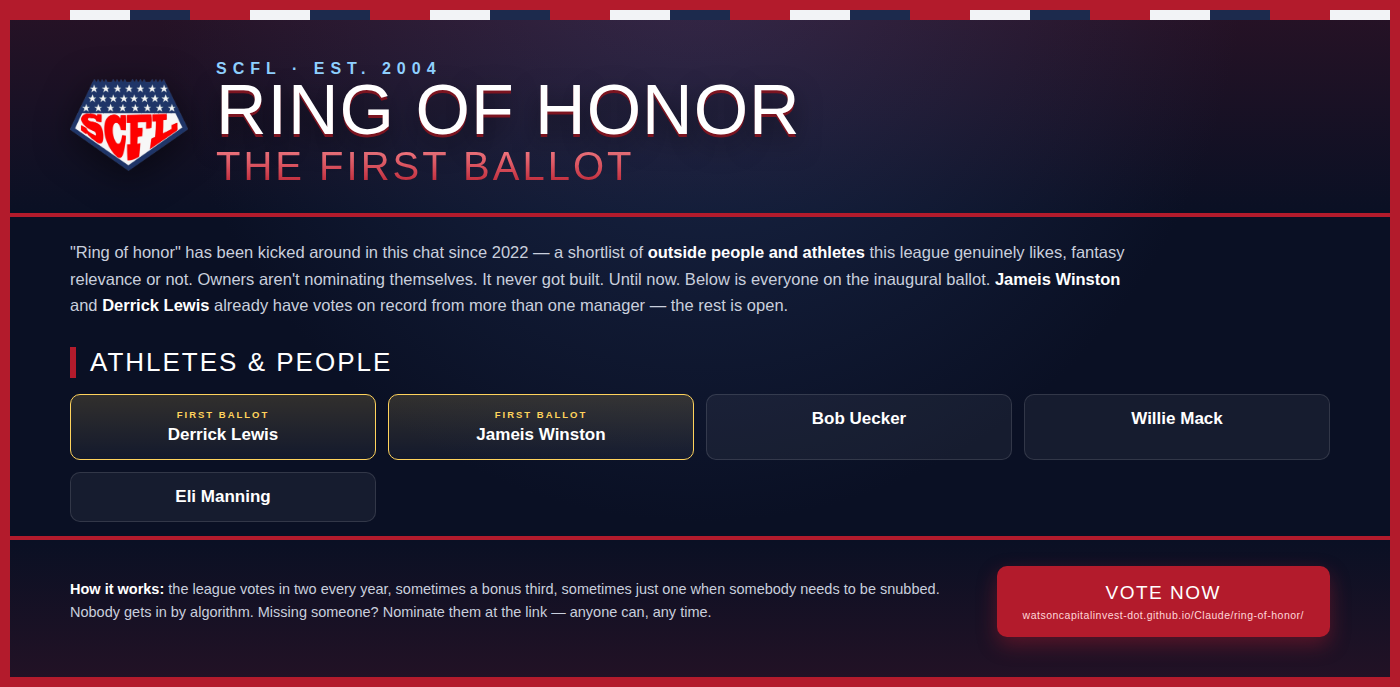
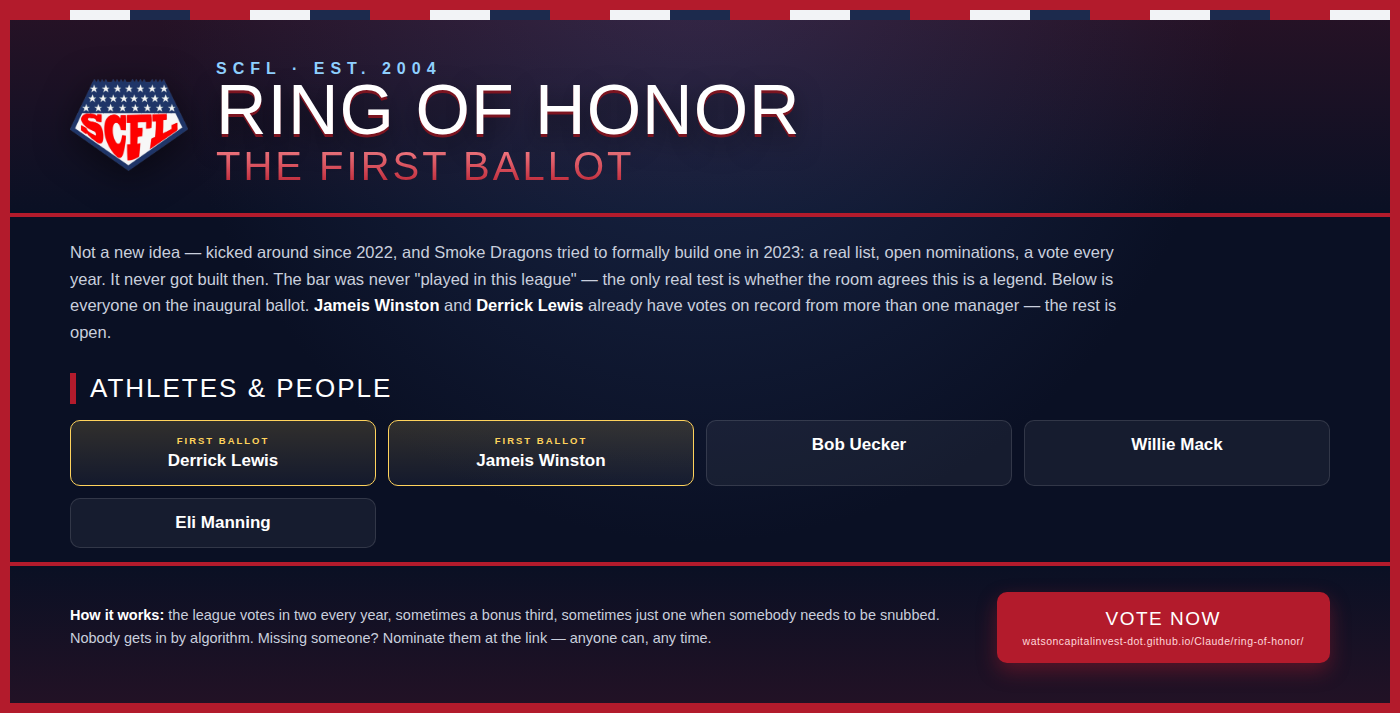
Rewrite the Ring of Honor intro from the actual chat history
The "fun people this league likes — full stop" framing was my own
paraphrase, not theirs, and it read wrong. Went back to the source:
casual "ring of honor" nominations go back to at least May 2022 (a
golfer, called out as a legend on and off the course), and Smoke
Dragons made an actual formal proposal in May 2023 — build a list, take
league nominations, vote in a couple every year, tie it to draft day.
It never got built then.

That's the real precedent, and it was never "played in this league" as
a bar — the closest thing to a stated rule is whether the room agrees
someone's a legend. Rewrote the intro on the standalone page, the
in-app tool, the ballot card, and the build script's own docstring to
say that plainly instead of my generic version.

diff --git a/index.html b/index.html
@@ -7689,14 +7689,13 @@ async function showRingOfHonor(flash) {
     </div>`;
   setContent(`<button class="btn ghost" data-act="newsroom" style="width:auto;padding:8px 14px;margin-bottom:14px">‹ Newsroom</button>
     <div class="card"><h3>🏆 SCFL Ring of Honor</h3>
-      <p class="muted">Fun people and athletes this league likes — full stop. Doesn't have to be a
-      fantasy-relevant name; doesn't have to have ever been on a roster. Outside figures only — the
-      sixteen owners aren't nominating themselves. This has actually been a running idea in the
-      group chat since 2022, long before it had an app page. This board only collects votes and
-      nominations — nobody gets inducted by an algorithm, only by the league itself. The candidates
-      below are a starting seed, not a finished ballot, so it's guaranteed to be missing people. If
-      someone's missing — a fighter, a comedian, a guy from the group chat's favorite team, whoever
-      — nominate them below.</p>
+      <p class="muted">Not a new idea — the chat's kicked around a "ring of honor" since at least
+      2022, and Smoke Dragons tried to formally build one in 2023: a real list, open nominations, a
+      vote every year, tied to draft day. It never got built then. The bar was never "played in this
+      league" — real votes since have gone to a UFC heavyweight and a Brewers broadcaster right
+      alongside actual NFL names. The only real test: does the room agree this is a legend. Outside
+      people and athletes only — the sixteen owners aren't nominating themselves. The candidates
+      below are a starting seed, not a finished ballot. If someone's missing, nominate them below.</p>
       <p class="faint" style="margin-top:10px;font-size:12.5px">Want to post this for the league to
       vote on without opening the app? Share <b>ring-of-honor/</b> — same ballot, no login, works
       from a phone.</p></div>

diff --git a/ring-of-honor/index.html b/ring-of-honor/index.html
@@ -92,10 +92,12 @@ footer{padding:26px 22px 10px;color:var(--faint);font-size:12px;text-align:cente
     </div>
   </header>
   <div class="intro">
-    Fun people and athletes this league likes &mdash; not a fantasy-relevance list, just who this
-    group actually roots for. Outside figures only; the sixteen owners aren't nominating
-    themselves. This has been a running idea in the chat since 2022. No login, no app download
-    &mdash; vote here, and bookmark or re-share this exact link every year.
+    Not a new idea &mdash; the chat's kicked around a "ring of honor" since at least 2022, and
+    Smoke Dragons tried to formally build one in 2023: a real list, open nominations, a vote every
+    year, tied to draft day. It never got built then. The bar was never "played in this league" &mdash;
+    real votes since have gone to a UFC heavyweight and a Brewers broadcaster right alongside actual
+    NFL names. The only real test: does the room agree this is a legend. Outside people and athletes
+    only &mdash; the sixteen owners aren't nominating themselves.
   </div>
   <div id="content" class="loading">Loading the ballot&hellip;</div>
 </div>

diff --git a/scripts/build_ring_of_honor.py b/scripts/build_ring_of_honor.py
@@ -1,16 +1,22 @@
 #!/usr/bin/env python3
 """Build ring-of-honor.json — the seed candidate list for the SCFL Ring of Honor.
 
-The Ring of Honor is fun people and athletes this league likes — full stop.
-Not "fantasy-relevant," not "was on someone's roster." A UFC heavyweight
-whose post-fight interviews the group chat loves belongs here exactly as
-much as a wrestler one manager's spouse works with. Induction is a league
-call, not something this script can make — chat exports never enter this
-repo (see docs/ROADMAP.md), so this seeds candidates only from material
-already distilled and reviewed elsewhere in the repo, plus names named
-directly by the commissioner. Nothing here is quoted chat text; every blurb
-is written fresh from the sourced facts and every candidate is DRAFT until
-the league votes it in through the app.
+This isn't a new idea being bolted onto the league — it's a real one, with a
+real history in the chat. Casual "ring of honor" nominations go back to at
+least May 2022 (a golfer, praised as an unbothered legend on and off the
+course). Smoke Dragons tried to formally build one in May 2023: draw up a
+list, take nominations from the league, vote in a couple every year, tie it
+to draft day. It never got built then. The bar was never "played in this
+league" or "fantasy-relevant" — real "first ballot" votes since have gone to
+a UFC heavyweight and a Brewers broadcaster right alongside actual NFL
+names. The one real test across every real mention: does the room agree
+this person is a legend. Induction is a league call, not something this
+script can make — chat exports never enter this repo (see docs/ROADMAP.md),
+so this seeds candidates only from material already distilled and reviewed
+elsewhere in the repo, plus names named directly by the commissioner.
+Nothing here is quoted chat text; every blurb is written fresh from the
+sourced facts and every candidate is DRAFT until the league votes it in
+through the app.
 
 The sixteen managers are explicitly NOT eligible for self-nomination here —
 "we're not nominating owners" (the commissioner, Aug 2026). dossier.json is
